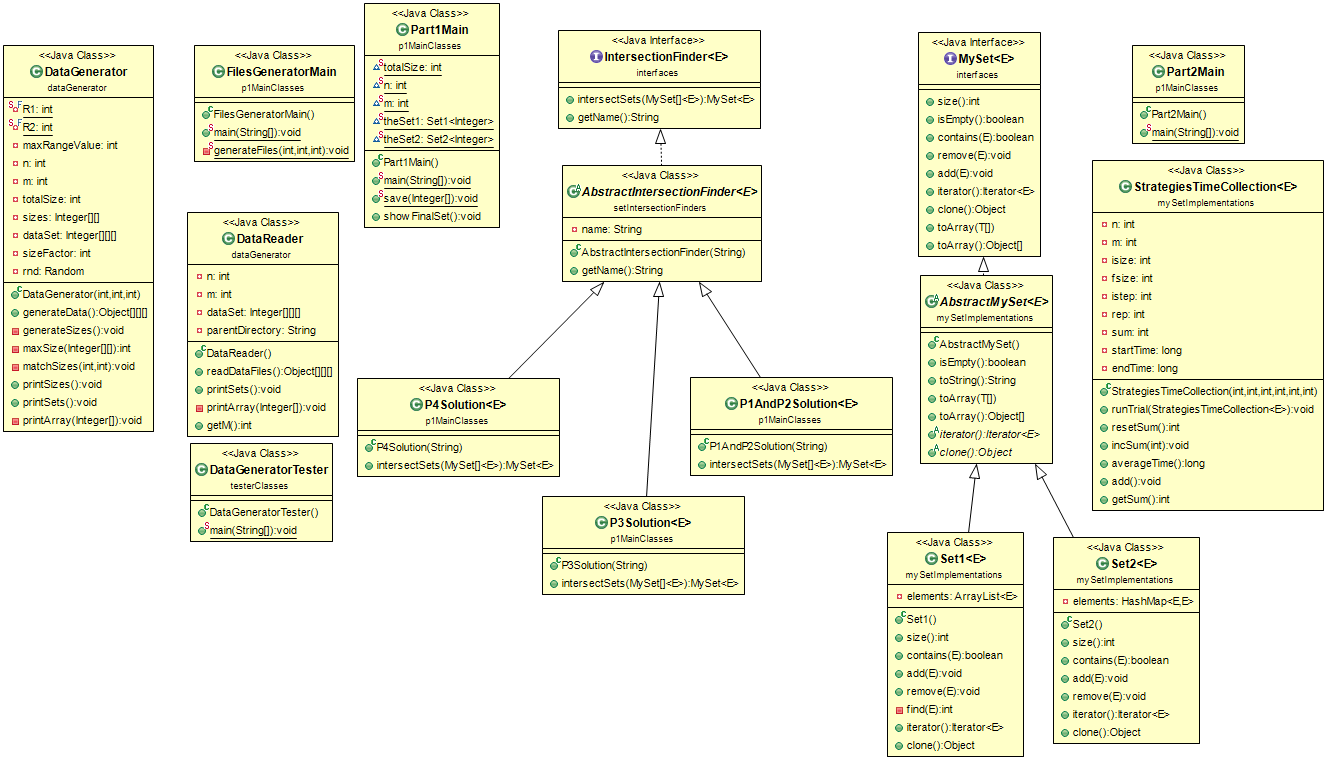
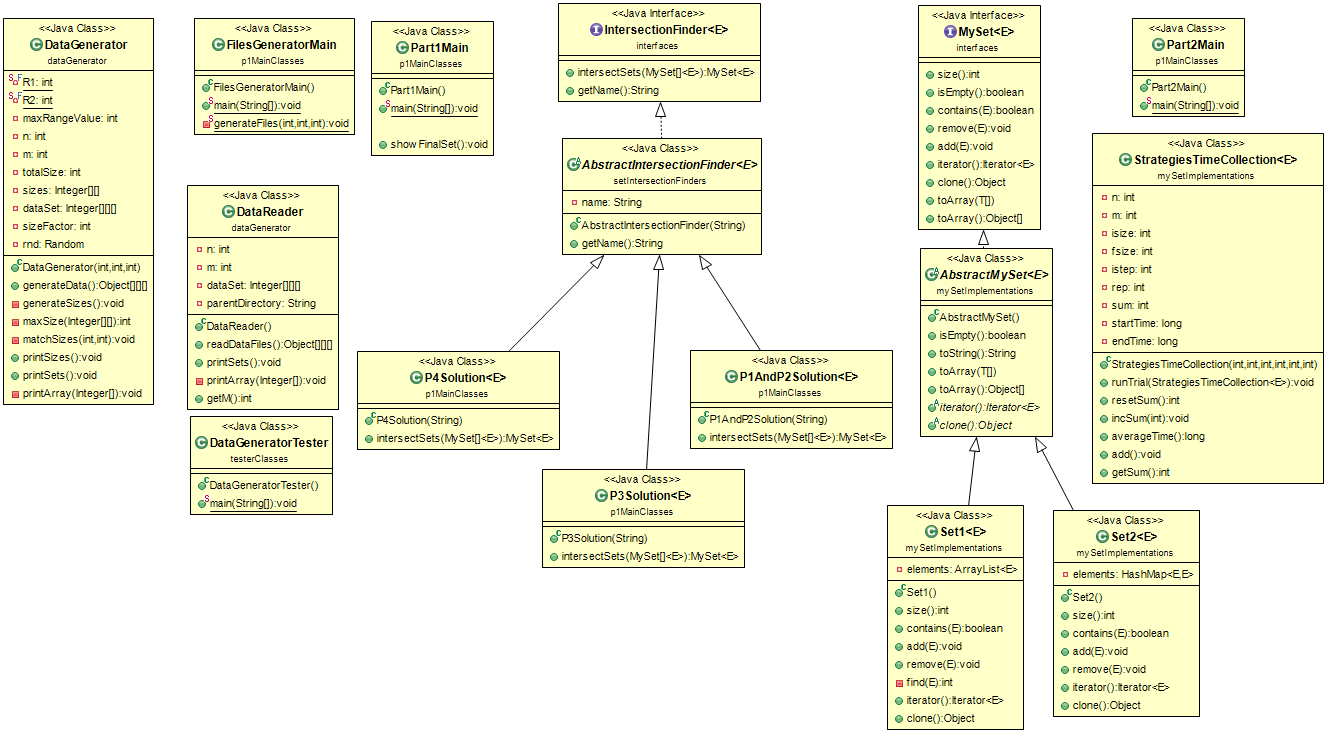
Keeping it safe

Changed region(s): [[0.0, 0.0, 1.0, 1.0], [0.4017, 0.4202, 0.4326, 0.4502]]

diff --git a/p1_40354020_172/src/p1MainClasses/P1AndP2Solution.java b/p1_40354020_172/src/p1MainClasses/P1AndP2Solution.java
@@ -1,6 +1,9 @@
 package p1MainClasses;
+import javax.swing.text.html.HTMLDocument.Iterator;
+
 import interfaces.MySet;
 import mySetImplementations.Set1;
+import mySetImplementations.Set2;
 import setIntersectionFinders.AbstractIntersectionFinder;
 
 public class P1AndP2Solution<E> extends AbstractIntersectionFinder<E> {
@@ -14,10 +17,74 @@ public class P1AndP2Solution<E> extends AbstractIntersectionFinder<E> {
 	public MySet<E> intersectSets(MySet<E>[] t) {
 		// TODO Auto-generated method stub
 		//Part1Main.list
-		//MySet<E> problematicos= new MySet<E>;
+		
+		  if (this.getName() == "P1") {
+              Set1<Integer> setOne = (Set1<Integer>) t[0];
+              for(int i=1; i<t.length; i++) {
+                      for(Integer e: setOne) {
+                              if(!(t[i].contains((E) e))) {
+                                      setOne.remove(e);
+                              }
+
+                      }
+
+              }
+              return (MySet<E>) setOne;
+
+      }
+
+      if(this.getName() == "P2") {
+
+              Set2<Integer> setTwo = (Set2<Integer>) t[0];
+
+              for(int j=1; j<t.length; j++) {
+
+                      for(Integer s: setTwo) {
+
+                              if(!(t[j].contains((E) s))) {
+
+                                      setTwo.remove(s);
+
+                              }
+
+                      }
+
+              }
+
+              return (MySet<E>) setTwo;
+
+      }
+
+      
+
+      return null;
+
+}
 		
 		
-		return null;
-	}
+		
+		
+		
+//		MySet<E> problem;
+//		if(getName()=="P1") 
+//			problem=new Set1<E>();
+//		else
+//			problem= new Set2<E>();
+//		
+//		for(MySet<E> e: t) {
+//			problem.add(e);
+//		}
+//		for(int i=1;i<t.length;i++) {
+//			Iterator iter= problem.iterator();
+//			while(iter.hasNext())
+//				if(!(t[i].contains(iter.next())){
+//					iter.remove();
+//				}
+//		}
+//		
+//
+//		
+//		return problem;
+//	}
 
 }

diff --git a/p1_40354020_172/src/p1MainClasses/Part1Main.java b/p1_40354020_172/src/p1MainClasses/Part1Main.java
@@ -10,11 +10,11 @@ import mySetImplementations.Set2;
 
 public class Part1Main {
 
-
-static int totalSize = 200; 
-static int n = 20, m = 10; 
-static Set1<Integer> theSet1=new Set1<>();
-static Set2<Integer> theSet2=new Set2<>();
+//
+//static int totalSize = 200; 
+//static int n = 20, m = 10; 
+//static Set1<Integer> theSet1=new Set1<>();
+//static Set2<Integer> theSet2=new Set2<>();
 
 	public static void main(String[] args) throws FileNotFoundException {
 		//n es el numero de companys
@@ -27,10 +27,10 @@ static Set2<Integer> theSet2=new Set2<>();
 		
 		MySet<Integer>[] theSet= new MySet[rd.getM()];
 		
-		Set1<Integer> theUnion;
+		MySet<Integer> theUnion;
 		
 		for(int j=0;j<fData[0].length;j++) {
-			theUnion= new Set1<Integer>();
+			theUnion= new Set2<Integer>();
 			for(int i=0;i<fData.length;i++) {
 				for(int k=0;k<fData[i][j].length;k++) {
 					theUnion.add(fData[i][j][k]);
@@ -39,7 +39,9 @@ static Set2<Integer> theSet2=new Set2<>();
 			theSet[j]=theUnion;
 		}
 		System.out.println(theSet);
-		P1AndP2Solution p1= new P1AndP2Solution("P1");
+		P3Solution p1= new P3Solution("P2");
+		p1.intersectSets(theSet);
+		System.out.println(p1.intersectSets(theSet));
 		
 		//p1.intersectSets(theSet);
 //		DataGenerator dg = new DataGenerator(n, m, totalSize);
@@ -77,16 +79,16 @@ static Set2<Integer> theSet2=new Set2<>();
 //		}
 			}
 	//
-	public static void save(Integer[] t) {
-		for(int i=0;i<t.length;i++) {
-			if(!(theSet1.contains(t[i]))) {
-			theSet1.add(t[i]);
-			}
-			if(!(theSet2.contains(t[i]))) {
-				theSet2.add(t[i]);
-				}
-		}
-	}
+//	public static void save(Integer[] t) {
+//		for(int i=0;i<t.length;i++) {
+//			if(!(theSet1.contains(t[i]))) {
+//			theSet1.add(t[i]);
+//			}
+//			if(!(theSet2.contains(t[i]))) {
+//				theSet2.add(t[i]);
+//				}
+//		}
+//	}
 	
 //	public static void print(Integer[] t) {
 //		for(int i=0;i<t.length;i++)

diff --git a/p1_40354020_172/src/p1MainClasses/P3Solution.java b/p1_40354020_172/src/p1MainClasses/P3Solution.java
@@ -1,6 +1,7 @@
 package p1MainClasses;
 import java.util.ArrayList;
 
+import dataGenerator.DataReader;
 import interfaces.MySet;
 import mySetImplementations.Set2;
 import setIntersectionFinders.AbstractIntersectionFinder;
@@ -15,6 +16,7 @@ public class P3Solution<E> extends AbstractIntersectionFinder<E> {
 	@Override
 	public MySet<E> intersectSets(MySet<E>[] t) {
 		// TODO Auto-generated method stub
+//		DataReader rd= new DataReader();
 //		ArrayList<E>allElements=new ArrayList<>();
 //		allElements.sort(null); 		
 //		MySet<E> t1 = new Set2();  // sets in P3's solution are of type Set2
@@ -24,14 +26,14 @@ public class P3Solution<E> extends AbstractIntersectionFinder<E> {
 //		    if (allElements.get(i).equals(e)) 
 //		       c++;
 //		    else { 
-//		       if (c == m) 
+//		       if (c == rd.getM()) 
 //		          t1.add(e);    // m is as in the previous discussion
 //		       e = allElements.get(i); 
 //		       c = 1; 
 //		    } 
 //		}
-//		if (c == m)
-//		    t.add(allElements.get(allElements.size()-1));
+//		if (c == rd.getM())
+//		    t1.add(allElements.get(allElements.size()-1));
 
 		return null;
 	}

diff --git a/p1_40354020_172/src/p1MainClasses/P4Solution.java b/p1_40354020_172/src/p1MainClasses/P4Solution.java
@@ -12,6 +12,8 @@ public class P4Solution<E> extends AbstractIntersectionFinder<E> {
 	@Override
 	public MySet<E> intersectSets(MySet<E>[] t) {
 		// TODO Auto-generated method stub
+		
+		
 		return null;
 	}
 
